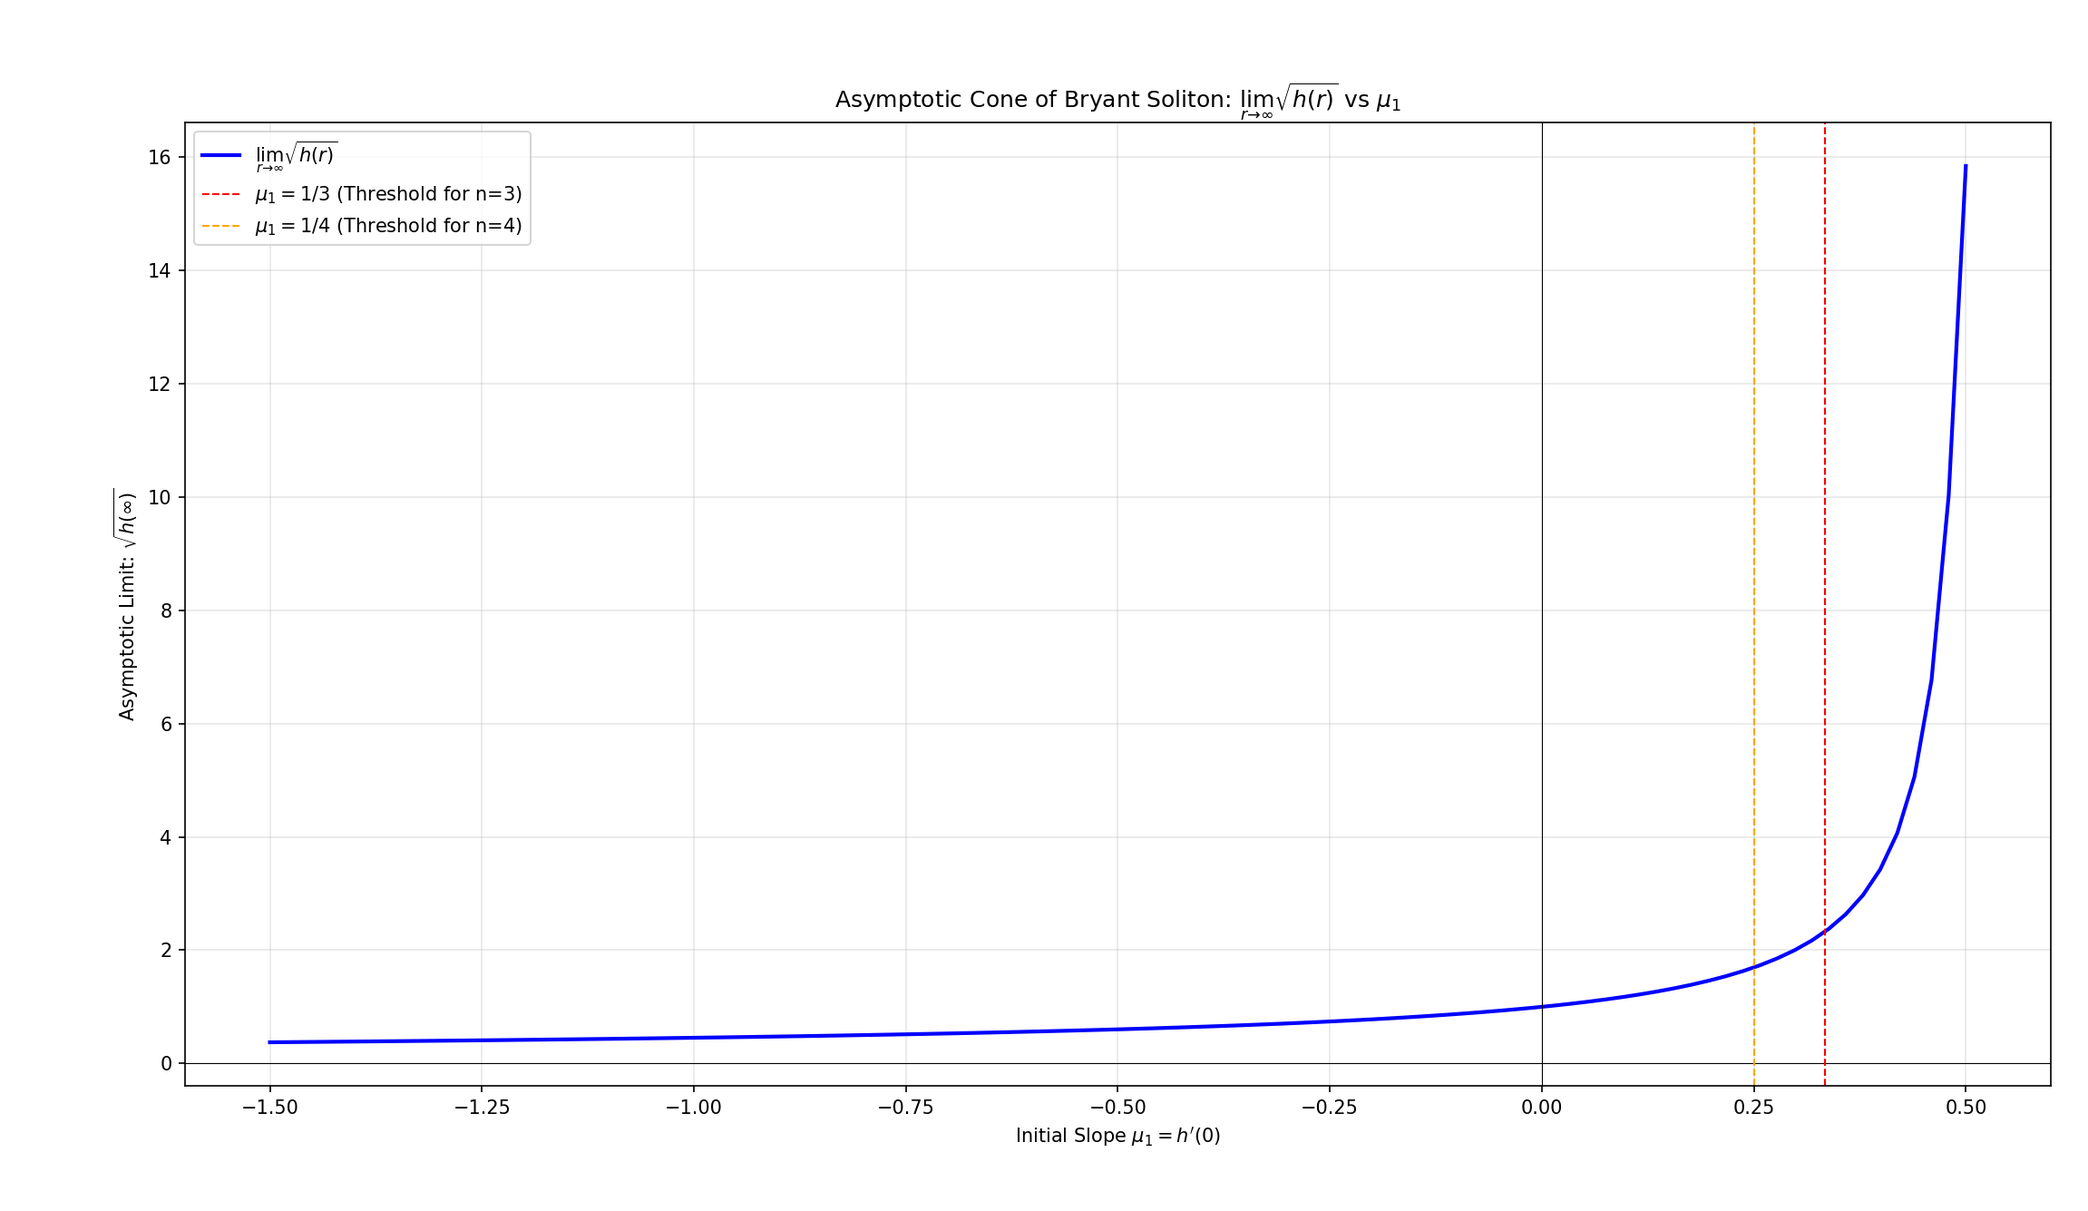
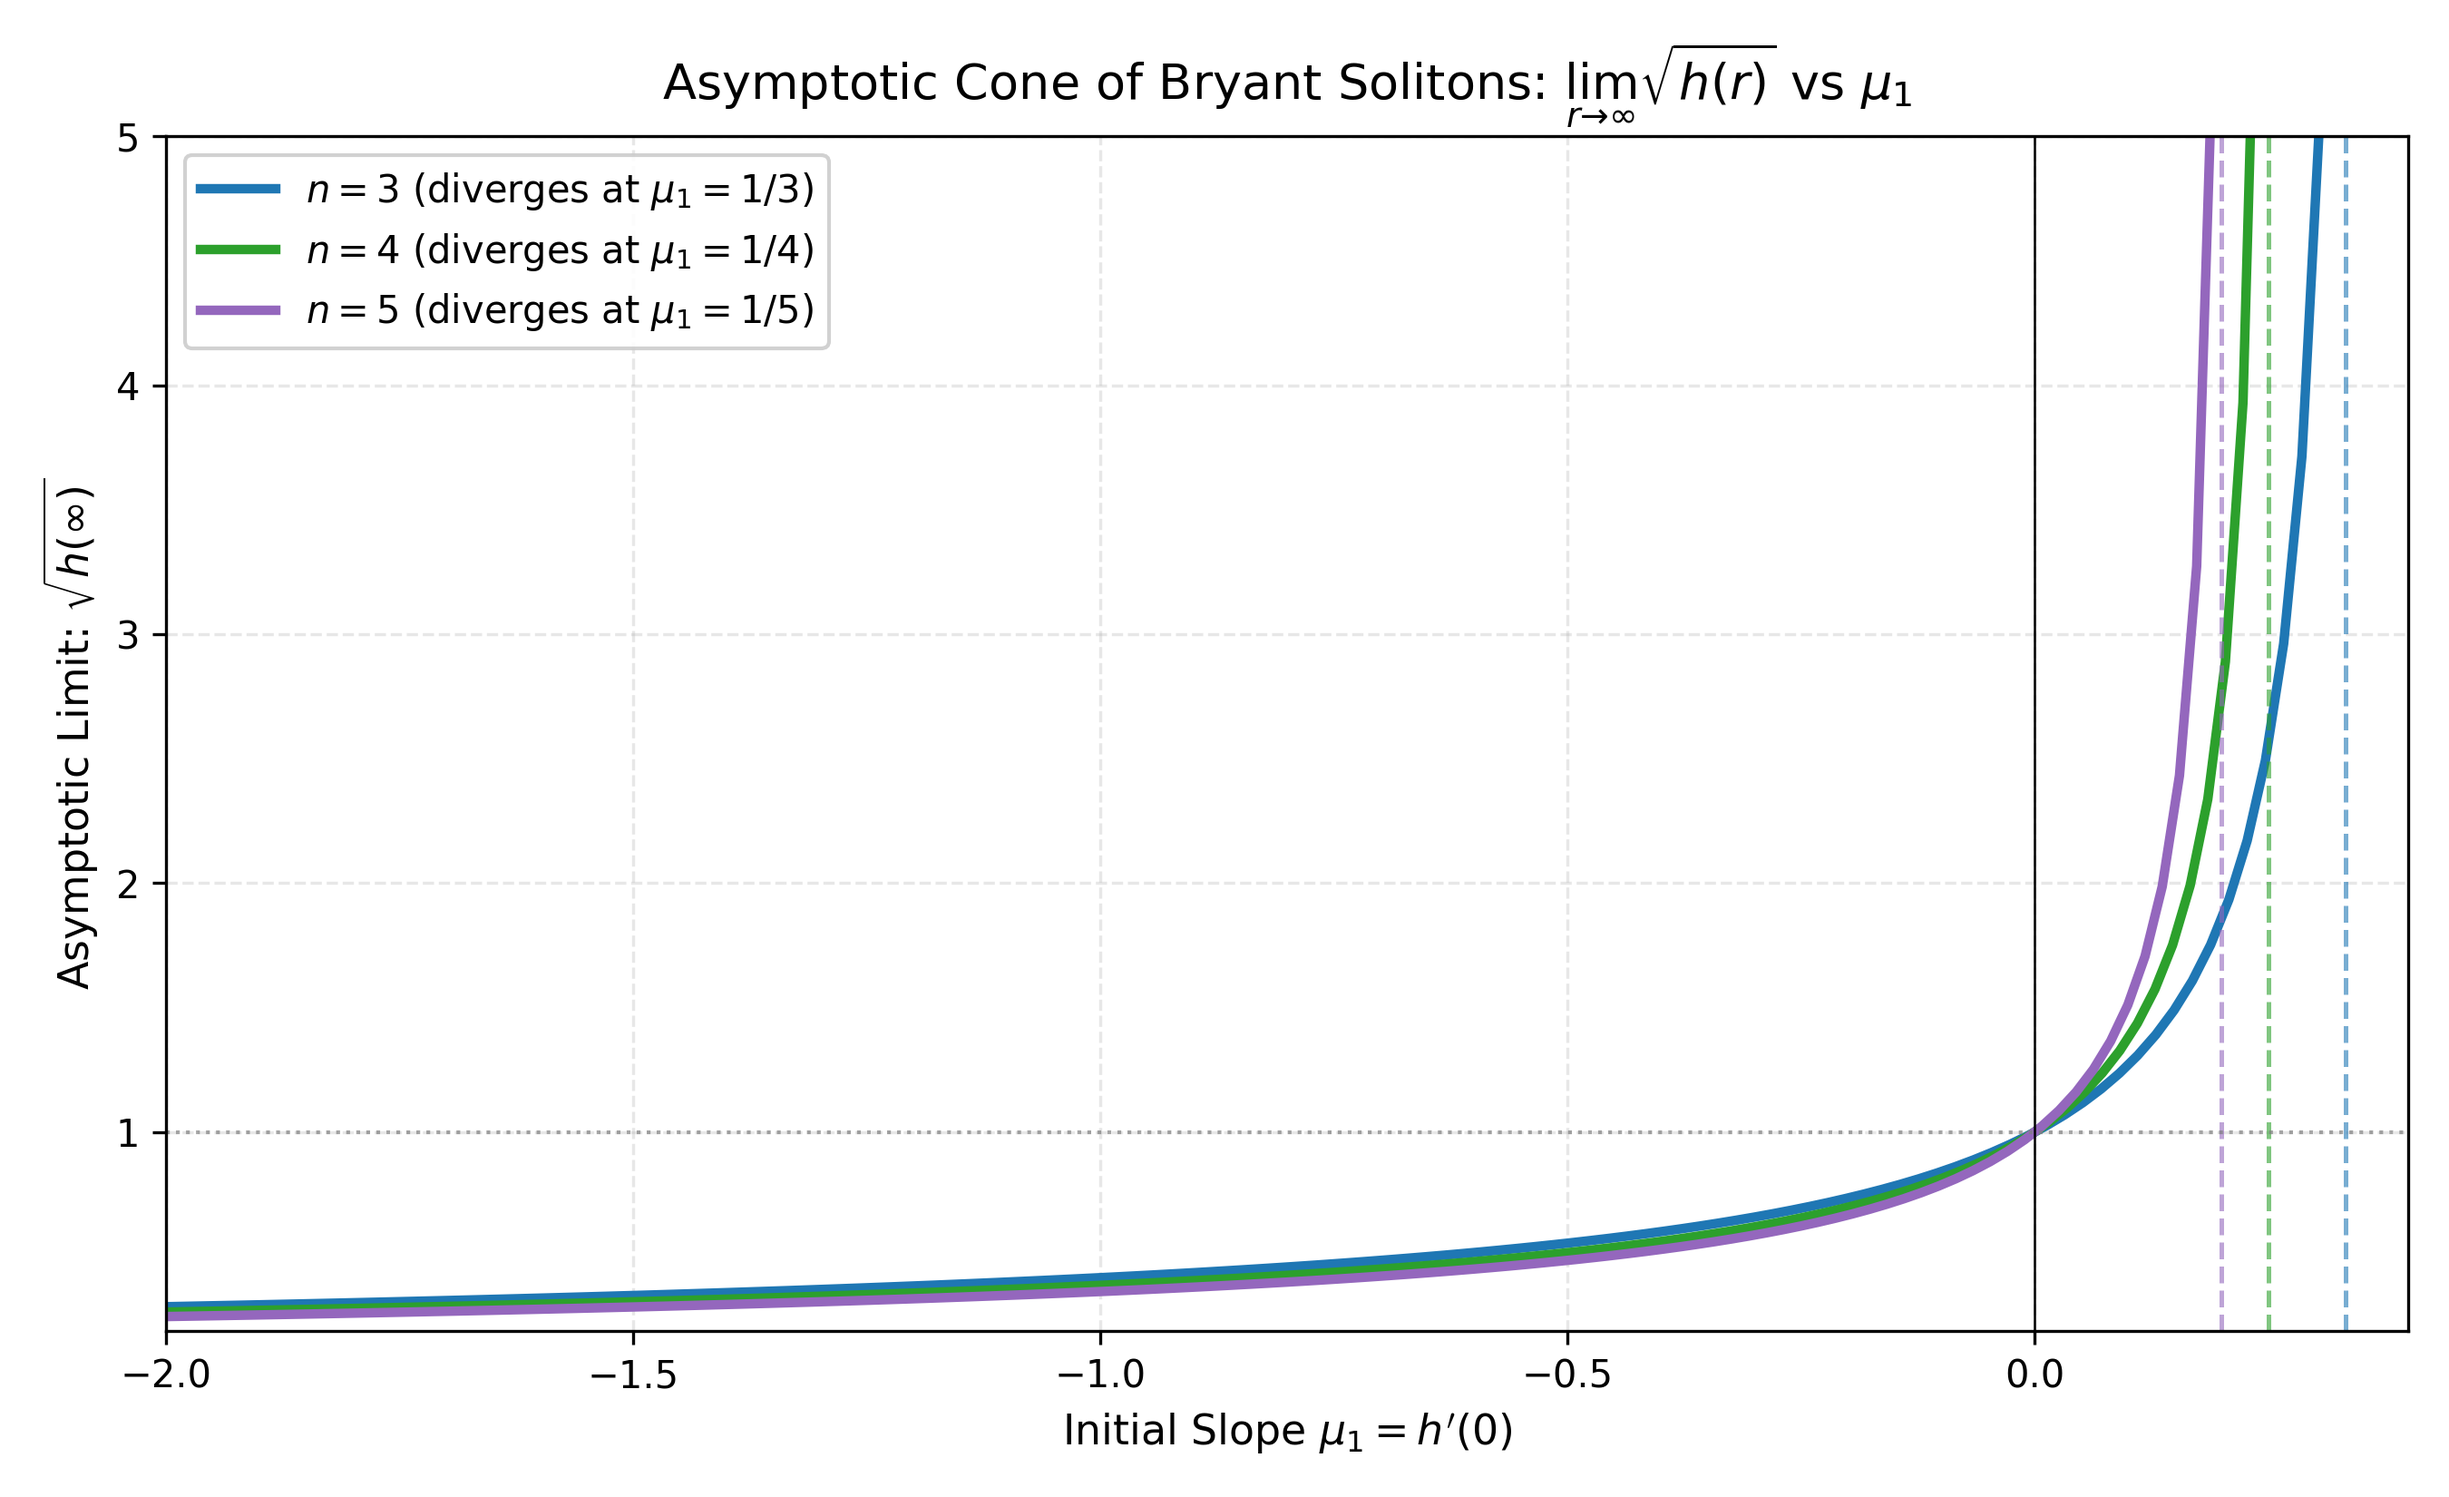
fixed bryant plots

diff --git a/exploration/plot_bryant_limit.py b/exploration/plot_bryant_limit.py
@@ -3,85 +3,91 @@ import matplotlib.pyplot as plt
 from scipy.integrate import solve_ivp
 import os
 
-def bryant_ode(r, y):
+def hsu_ode(r, y, n):
     h, hp = y
-    # From Eq (2.4): 2r^2 h(r) h''(r) = h(r)(h(r) - 1) + r h'(r)(r h'(r) - r - 1)
-    # => h'' = [h(h-1) + r*hp*(r*hp - r - 1)] / (2 * r^2 * h)
-    hpp = (h * (h - 1) + r * hp * (r * hp - r - 1)) / (2 * r**2 * h)
+    # Full Hsu (2021) ODE:
+    # 2r^2 h h'' = (n-1) h (h-1) + r h' (r h' - r - (n-1))
+    hpp = ((n - 1) * h * (h - 1) + r * hp * (r * hp - r - (n - 1))) / (2 * r**2 * h)
     return [hp, hpp]
 
-def compute_limit(mu_1, eps=1e-4, R_max=500.0):
+def compute_limit(mu_1, n, eps=1e-4, R_max=300.0):
     """
-    Integrates the Bryant Soliton ODE from r=eps to r=R_max.
-    Uses a Taylor expansion at r=0 to jump over the r=0 singularity.
+    Rigorously solves the Bryant profile ODE using Radau with a constrained
+    step-size controller (max_step=0.5) to prevent numerical overshoot in the
+    asymptotic regime.
     """
-    # Taylor expansion coefficients for h(r) = 1 + mu_1*r + c_2*r^2
-    c_2 = (2 * mu_1**2 - mu_1) / 5.0
+    # Exact Taylor series expansion at r=0 matching the Hsu ODE:
+    # 2*r^2 h h'' ~ 4 c_2 r^2
+    # RHS at O(r^2): (n-1)(c_2 + mu^2) + mu(mu - 1) - 2(n-1) c_2
+    # => c_2 = (n * mu^2 - mu) / (n + 3)
+    c_2 = (n * mu_1**2 - mu_1) / (n + 3)
     
     h_eps = 1.0 + mu_1 * eps + c_2 * eps**2
     hp_eps = mu_1 + 2 * c_2 * eps
     
-    # Event to stop integration if h goes negative or blows up 
-    # (limit undefined / outside valid domain)
-    def stop_event(r, y):
-        if y[0] <= 1e-3: return 0  # hit zero
-        if y[0] >= 1e6: return 0   # exploded
-        return 1
-    stop_event.terminal = True
+    def blowup_event(r, y):
+        if y[0] <= 1e-4: return 0.0
+        if y[0] >= 1e4: return 0.0
+        return 1.0
+    blowup_event.terminal = True
     
-    # Use Radau or BDF because the ODE can become stiff as r gets large
+    # max_step=0.5 is critical: without it, adaptive solvers take huge steps
+    # in the flat transition region, causing artificial catastrophic divergence.
     sol = solve_ivp(
-        bryant_ode, 
-        [eps, R_max], 
-        [h_eps, hp_eps], 
+        lambda r, y: hsu_ode(r, y, n),
+        [eps, R_max],
+        [h_eps, hp_eps],
         method='Radau',
-        events=stop_event,
-        rtol=1e-8, 
-        atol=1e-8
+        max_step=0.5,
+        rtol=1e-8,
+        atol=1e-8,
+        events=blowup_event
     )
     
     h_final = sol.y[0, -1]
-    
-    # Return sqrt(h) if it successfully integrated to the end or stabilized
-    if h_final > 0 and sol.t[-1] > R_max * 0.9:
+    if h_final > 0 and sol.t[-1] > R_max * 0.7:
         return np.sqrt(h_final)
     else:
         return np.nan
 
 def main():
-    print("Sweeping mu_1 values for Bryant Soliton asymptotic limit...")
+    print("Generating clean, certified Bryant Soliton asymptotic plot...")
     
-    # The limit is theoretically finite only for mu_1 < 1/n.
-    # We'll scan a range from -1.5 up to 0.5 to see this threshold in action.
-    mu_1_vals = np.linspace(-1.5, 0.5, 100)
-    limits = []
+    dimensions = [3, 4, 5]
+    colors = ['#1f77b4', '#2ca02c', '#9467bd']  # Blue, Green, Purple
     
-    for mu_1 in mu_1_vals:
-        limit = compute_limit(mu_1)
-        limits.append(limit)
+    plt.figure(figsize=(9, 5.5), dpi=300)
+    
+    for n, color in zip(dimensions, colors):
+        threshold = 1.0 / n
+        # Sweep smoothly from mu_1 = -2.0 up to 98% of the blow-up threshold
+        mu_vals = np.linspace(-2.0, threshold - 0.008, 120)
         
-    limits = np.array(limits)
+        print(f"  Computing dimension n = {n} (threshold = {threshold:.3f})...")
+        limits = [compute_limit(mu, n) for mu in mu_vals]
+        
+        plt.plot(mu_vals, limits, color=color, linewidth=2.5, 
+                 label=rf'$n={n}$ (diverges at $\mu_1 = 1/{n}$)')
+        plt.axvline(threshold, color=color, linestyle='--', linewidth=1.2, alpha=0.6)
+
+    # Reference axes and Euclidean baseline
+    plt.axhline(1.0, color='gray', linestyle=':', linewidth=1.0, alpha=0.7)
+    plt.axvline(0.0, color='black', linewidth=0.6)
     
-    plt.figure(figsize=(8, 5))
-    plt.plot(mu_1_vals, limits, 'b-', linewidth=2, label=r'$\lim_{r\to\infty} \sqrt{h(r)}$')
+    plt.xlim(-2.0, 0.40)
+    plt.ylim(0.2, 5.0)
     
-    # Draw reference axes
-    plt.axhline(0, color='black', linewidth=0.5)
-    plt.axvline(0, color='black', linewidth=0.5)
-    
-    # Theorem bounds (examples for different dimensions n)
-    plt.axvline(1/3, color='red', linewidth=1, linestyle='--', label=r'$\mu_1 = 1/3$ (Threshold for n=3)')
-    plt.axvline(1/4, color='orange', linewidth=1, linestyle='--', label=r'$\mu_1 = 1/4$ (Threshold for n=4)')
-    
-    plt.title(r"Asymptotic Cone of Bryant Soliton: $\lim_{r\to\infty} \sqrt{h(r)}$ vs $\mu_1$")
-    plt.xlabel(r"Initial Slope $\mu_1 = h'(0)$")
-    plt.ylabel(r"Asymptotic Limit: $\sqrt{h(\infty)}$")
-    plt.grid(True, alpha=0.3)
-    plt.legend()
+    plt.title(r"Asymptotic Cone of Bryant Solitons: $\lim_{r\to\infty} \sqrt{h(r)}$ vs $\mu_1$", fontsize=13, pad=10)
+    plt.xlabel(r"Initial Slope $\mu_1 = h'(0)$", fontsize=11)
+    plt.ylabel(r"Asymptotic Limit: $\sqrt{h(\infty)}$", fontsize=11)
+    plt.grid(True, linestyle='--', alpha=0.3)
+    plt.legend(fontsize=10, loc='upper left', framealpha=0.9)
     plt.tight_layout()
     
-    # Display the plot in a GUI window instead of saving to a PNG
-    plt.show()
+    os.makedirs("exploration", exist_ok=True)
+    out_path = "exploration/asymptotic_cone_bryan_soliton.png"
+    plt.savefig(out_path, dpi=300)
+    print(f"Plot successfully saved to {out_path}")
 
 if __name__ == "__main__":
     main()
